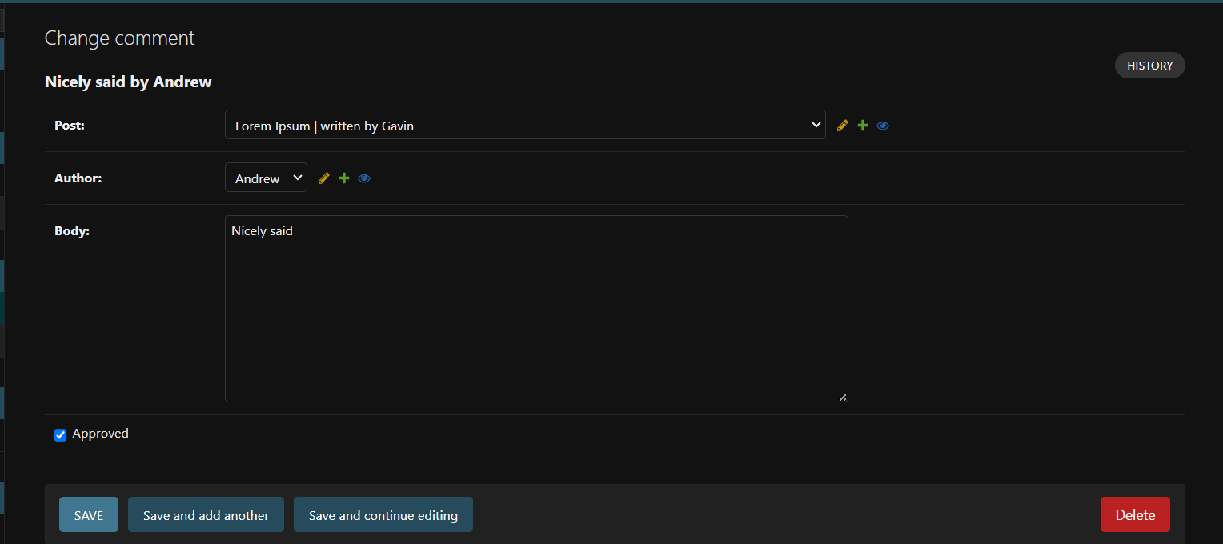
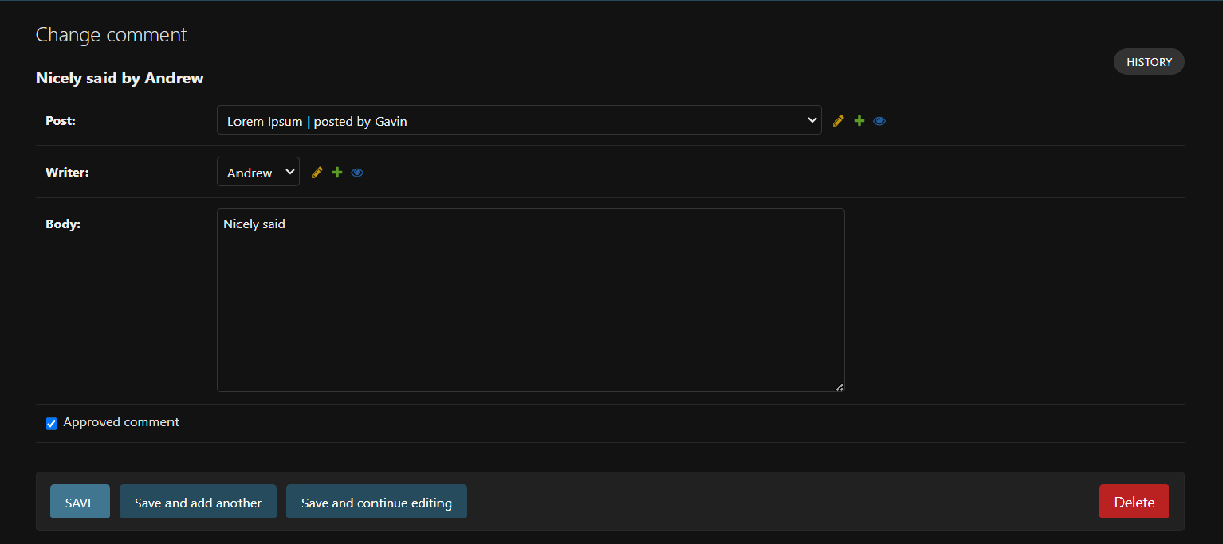
Making adjustment to the post and comment models' fields

diff --git a/blog/templates/blog/post_detail.html b/blog/templates/blog/post_detail.html
@@ -5,10 +5,10 @@
         <div class="row g-0">
             <div class="col-md-6 masthead-text">
                 <!--Post title in h1 tags-->
-                <h1 class="post_list">{{ post.title }}</h1>
+                <h1 class="post_list">{{ post.caption }}</h1>
                 <!--Post author goes here | the post's created date goes here-->
                 <p class="post-subtitle">
-                    {{ post.author }} | {{ post.created_on }} {% if request.user.is_superuser %}
+                    {{ post.writer }} | {{ post.created_at }} {% if request.user.is_superuser %}
                     <small class="m1-3">
                         <a href="{% url 'edit_blog' post.slug %}">Edit</a>
                         <a class="text-danger" href="{% url 'delete_blog' post.slug %}">Delete</a>
@@ -30,7 +30,7 @@
                 <!--The post content goes inside the card-text-->
                 <!--Use the | safe filter inside the template tags-->
                 <article class="card-text">
-                    {{ post.content | safe }}
+                    {{ post.body | safe }}
                 </article>
             </div>
         </div>
@@ -52,22 +52,22 @@
                 <!-- We want a for loop inside the empty control tags to interate through each
                 coment in comments -->
                 {% for comment in comments %}
-                <div class="p-2 comments {% if not comment.approved and comment.author == user %} faded{% elif not comment.approved %} d-none{% endif %}">
+                <div class="p-2 comments {% if not comment.approved and comment.writer == user %} faded{% elif not comment.approved_comment %} d-none{% endif %}">
                     <p class="font-weight-bold">
-                        {{ comment.author }}
+                        {{ comment.writer }}
                         <span class="font-weight-normal">
-                            {{ comment.created_on }}
+                            {{ comment.created_at }}
                         </span>
                         wrote:
                     </p>
                     <div id="comment{{ comment.id }}">
                         {{ comment.body | linebreaks }}
                     </div>
-                    {% if not comment.approved and comment.author == user %}
+                    {% if not comment.approved and comment.writer == user %}
                     <p class="approval">
                         This comment is awaiting approval
                     </p>
-                    {% endif %} {% if user.is_authenticated and comment.author == user %}
+                    {% endif %} {% if user.is_authenticated and comment.writer == user %}
                     <button class="btn btn-delete" data-comment_id="{{ comment.id }}">Delete</button>
                     <button class="btn btn-edit" data-comment_id="{{ comment.id }}">Edit</button>
                     {% endif %}

diff --git a/blog/templates/blog/index.html b/blog/templates/blog/index.html
@@ -11,22 +11,22 @@
                     <div class="card mb-4">
                         <div class="card-body">
                             <div class="image-container">
-                                {% if "placeholder" in post.featured_image.url %}
+                                {% if "placeholder" in post.chosen_image.url %}
                                 <img class="card-img-top" src="{% static 'images/default.jpg' %}" alt="placeholder image" />
                                 {% else %}
-                                <img class="card-img-top" src=" {{ post.featured_image.url }}" alt="{{ post.title }}" />
+                                <img class="card-img-top" src=" {{ post.chosen_image.url }}" alt="{{ post.caption }}" />
                                 {% endif %}
                                 <div class="image-flash">
-                                    <p class="author">Author: {{ post.author }}</p>
+                                    <p class="author">Author: {{ post.writer }}</p>
                                 </div>
                             </div>
                             <a href="{% url 'post_detail' post.slug %}" class="post-link">
-                                <h2 class="card-title">{{ post.title }}</h2>
+                                <h2 class="card-title">{{ post.caption }}</h2>
                                 <p class="card-text">{{ post.excerpt }}</p>
                             </a>
 
                             <hr />
-                            <p class="card-text text-muted h6">{{ post.created_on }}</p>
+                            <p class="card-text text-muted h6">{{ post.created_at }}</p>
                             {% if request.user.is_superuser %}
                             <small class="m1-3">
                                 <a href="{% url 'edit_blog' post.slug %}">Edit</a>

diff --git a/blog/models.py b/blog/models.py
@@ -9,21 +9,21 @@ class Post(models.Model):
     """
     Store a single blog post entry related to :model: `auth.User`.
     """
-    title = models.CharField(max_length=200, unique=True)
+    caption = models.CharField(max_length=200, unique=True)
     slug = models.SlugField(max_length=200, unique=True)
-    author = models.ForeignKey(User, on_delete=models.CASCADE, related_name="posts")
-    featured_image = CloudinaryField('image', default='placeholder')
-    content = models.TextField()
-    created_on = models.DateTimeField(auto_now_add=True)
+    writer = models.ForeignKey(User, on_delete=models.CASCADE, related_name="posts")
+    chosen_image = CloudinaryField('image', default='placeholder')
+    body = models.TextField()
+    created_at = models.DateTimeField(auto_now_add=True)
     status = models.IntegerField(choices=STATUS, default=0)
     excerpt = models.TextField(blank=True)
-    updated_on = models.DateTimeField(auto_now=True)
+    updated_at = models.DateTimeField(auto_now=True)
 
     class Meta:
-        ordering = ["created_on"]
+        ordering = ["created_at"]
 
     def __str__(self):
-        return f"{self.title} | written by {self.author}"
+        return f"{self.caption} | posted by {self.writer}"
 
 # Creating a Comment Model
 class Comment(models.Model):
@@ -32,13 +32,13 @@ class Comment(models.Model):
     and :model: `blog.Post`.
     """
     post = models.ForeignKey(Post, on_delete=models.CASCADE, related_name='comments')
-    author = models.ForeignKey(User, on_delete=models.CASCADE, related_name="author")
+    writer = models.ForeignKey(User, on_delete=models.CASCADE, related_name="writer")
     body = models.TextField()
-    approved = models.BooleanField(default=False)
-    created_on = models.DateTimeField(auto_now_add=True)
+    approved_comment = models.BooleanField(default=False)
+    created_at = models.DateTimeField(auto_now_add=True)
 
     class Meta:
-        ordering = ["created_on"]
+        ordering = ["created_at"]
 
     def __str__(self):
-        return f"{self.body} by {self.author}"
+        return f"{self.body} by {self.writer}"

diff --git a/blog/migrations/0006_alter_comment_options_alter_post_options_and_more.py b/blog/migrations/0006_alter_comment_options_alter_post_options_and_more.py
@@ -1,0 +1,68 @@
+# Generated by Django 4.2.11 on 2024-11-06 21:57
+
+from django.conf import settings
+from django.db import migrations, models
+import django.db.models.deletion
+
+
+class Migration(migrations.Migration):
+
+    dependencies = [
+        ('blog', '0005_post_featured_image'),
+    ]
+
+    operations = [
+        migrations.AlterModelOptions(
+            name='comment',
+            options={'ordering': ['created_at']},
+        ),
+        migrations.AlterModelOptions(
+            name='post',
+            options={'ordering': ['created_at']},
+        ),
+        migrations.RenameField(
+            model_name='comment',
+            old_name='approved',
+            new_name='approved_comment',
+        ),
+        migrations.RenameField(
+            model_name='comment',
+            old_name='created_on',
+            new_name='created_at',
+        ),
+        migrations.RenameField(
+            model_name='post',
+            old_name='content',
+            new_name='body',
+        ),
+        migrations.RenameField(
+            model_name='post',
+            old_name='title',
+            new_name='caption',
+        ),
+        migrations.RenameField(
+            model_name='post',
+            old_name='featured_image',
+            new_name='chosen_image',
+        ),
+        migrations.RenameField(
+            model_name='post',
+            old_name='created_on',
+            new_name='created_at',
+        ),
+        migrations.RenameField(
+            model_name='post',
+            old_name='updated_on',
+            new_name='updated_at',
+        ),
+        migrations.RenameField(
+            model_name='post',
+            old_name='author',
+            new_name='writer',
+        ),
+        migrations.RenameField(
+            model_name='comment',
+            old_name='author',
+            new_name='writer',
+        ),
+    ]

diff --git a/blog/views.py b/blog/views.py
@@ -32,13 +32,13 @@ def post_detail(request, slug):
 
     queryset = Post.objects.filter(status=1)
     post = get_object_or_404(queryset, slug=slug)
-    comments = post.comments.all().order_by("-created_on")
-    comment_count = post.comments.filter(approved=True).count()
+    comments = post.comments.all().order_by("-created_at")
+    comment_count = post.comments.filter(approved_comment=True).count()
     if request.method == "POST":
         comment_form = CommentForm(data=request.POST)
         if comment_form.is_valid():
             comment = comment_form.save(commit=False)
-            comment.author = request.user
+            comment.writer = request.user
             comment.post = post
             comment.save()
             messages.add_message(
@@ -74,7 +74,7 @@ def comment_edit(request, slug, comment_id):
 
         if comment_form.is_valid() and comment.author == request.user:
             comment.post = post
-            comment.approved = False
+            comment.approved_comment = False
             comment.save()
             messages.add_message(request, messages.SUCCESS, 'Comment Updated!')
         else:
@@ -92,7 +92,7 @@ def comment_delete(request, slug, comment_id):
     post = get_object_or_404(queryset, slug=slug)
     comment = get_object_or_404(Comment, pk=comment_id)
 
-    if comment.author == request.user:
+    if comment.writer == request.user:
         comment.delete()
         messages.add_message(request, messages.SUCCESS, 'Comment deleted!')
     else:

diff --git a/blog/admin.py b/blog/admin.py
@@ -10,11 +10,11 @@ class PostAdmin(SummernoteModelAdmin):
     field filter, fields to prepopulate and rich-text editor.
     """
 
-    list_display = ('title', 'slug', 'status', 'created_on')
-    search_field = ['title', 'content']
-    list_filter = ('status', 'created_on',)
-    prepopulated_fields = {'slug': ('title',)}
-    summernote_fields = ('content',)
+    list_display = ('caption', 'slug', 'status', 'created_at')
+    search_field = ['caption', 'body']
+    list_filter = ('status', 'created_at',)
+    prepopulated_fields = {'slug': ('caption',)}
+    summernote_fields = ('body',)
 
 # Registering Comment Model
 admin.site.register(Comment)

diff --git a/blog_space/settings.py b/blog_space/settings.py
@@ -30,10 +30,10 @@ TEMPLATES_DIR = os.path.join(BASE_DIR, 'templates')
 SECRET_KEY = os.environ.get("SECRET_KEY")
 
 # SECURITY WARNING: don't run with debug turned on in production!
-DEBUG =  False
+DEBUG =  True
 
 ALLOWED_HOSTS = [
-    '8000-krandon1986-project4ful-i046uuchxyn.ws-eu115.gitpod.io',
+    '8000-krandon1986-project4ful-i046uuchxyn.ws-eu116.gitpod.io',
      'blogspace-97bdcd968196.herokuapp.com'
  ]
 
